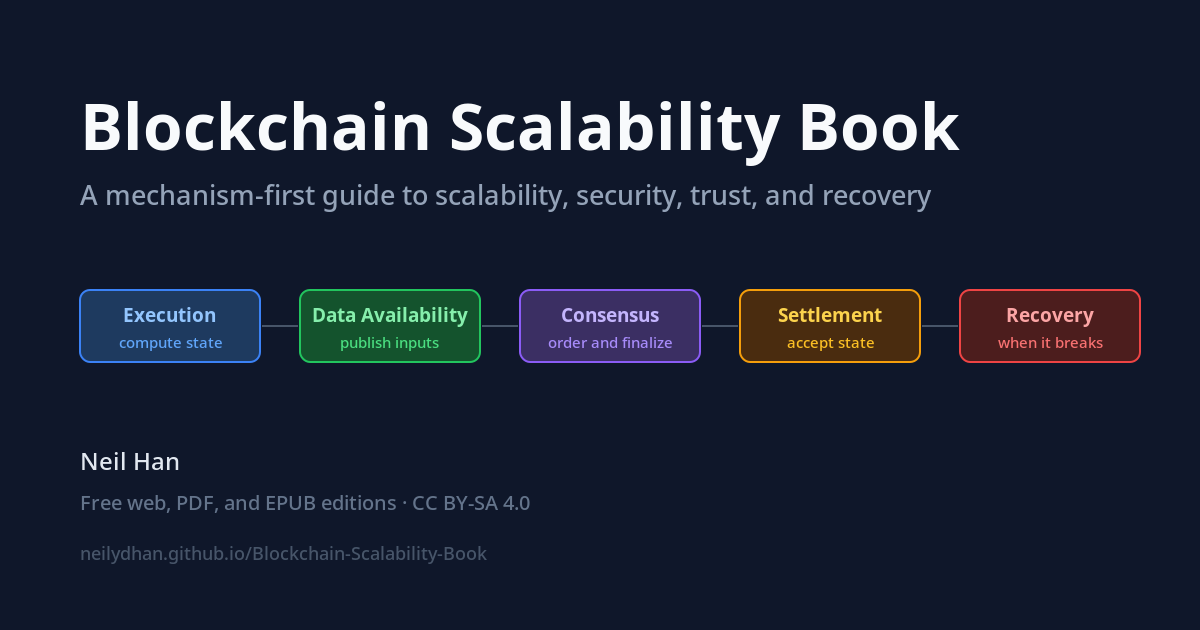
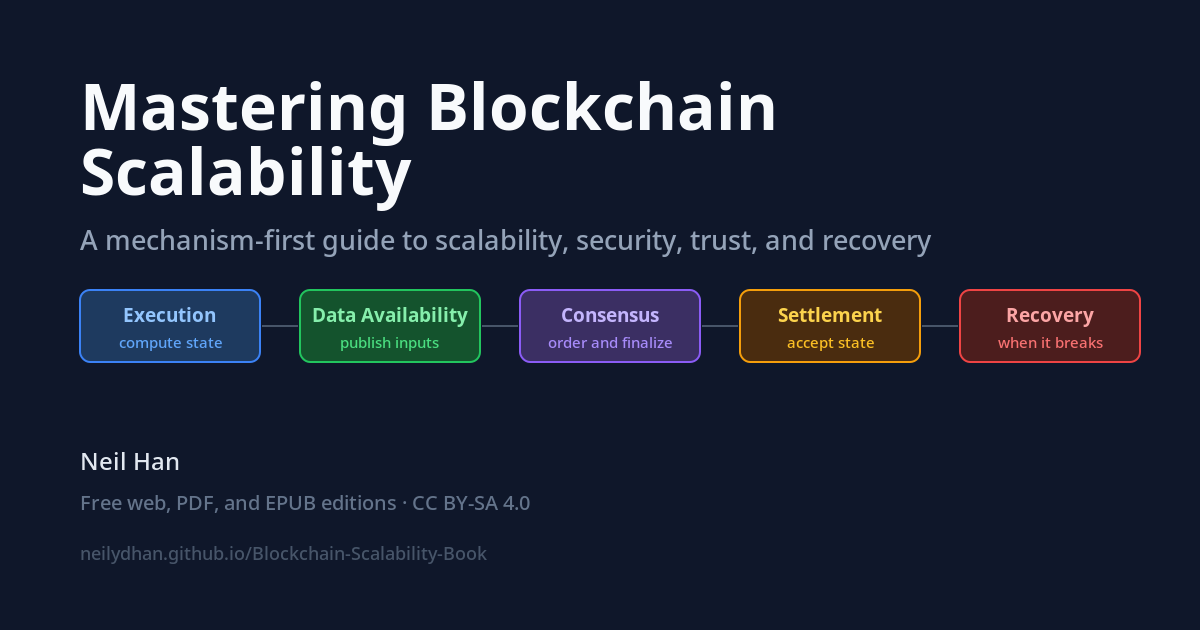
Rename book to Mastering Blockchain Scalability

Changed region(s): [[0.0617, 0.1206, 0.8017, 0.3317], [0.0617, 0.3619, 0.7708, 0.4222]]

diff --git a/theme/print-7x10.css b/theme/print-7x10.css
@@ -26,7 +26,7 @@ body {
   font-family: 'Noto Serif', serif;
   font-size: 10.5pt; line-height: 1.315;  /* 10.5pt on 13.8pt */
   color: #111;
-  string-set: booktitle "Blockchain Scalability Book";
+  string-set: booktitle "Mastering Blockchain Scalability";
 }
 p { text-align: justify; hyphens: auto; widows: 2; orphans: 2; margin: 0 0 5.5pt 0; }
 

diff --git a/theme/analytics.js b/theme/analytics.js
@@ -1,4 +1,4 @@
-/* Simple Analytics wiring for the Blockchain Scalability Book web edition.
+/* Simple Analytics wiring for the Mastering Blockchain Scalability web edition.
  * Collects only the six aggregate events approved in ANALYTICS.md.
  * No metadata, no identifiers; honors Do Not Track. MIT-licensed build software.
  */

diff --git a/scripts/pdf_toc.py b/scripts/pdf_toc.py
@@ -27,18 +27,18 @@ def clean_main(soup):
 
 def make_front_matter(soup, version):
     cover = soup.new_tag("section", attrs={"class": "pdf-front-page pdf-cover"})
-    h = soup.new_tag("h1"); h.string = "Blockchain Scalability Book"; cover.append(h)
+    h = soup.new_tag("h1"); h.string = "Mastering Blockchain Scalability"; cover.append(h)
     sub = soup.new_tag("p"); sub.string = "Mechanisms, Trade-offs, and Engineering Practice"; cover.append(sub)
 
     title = soup.new_tag("section", attrs={"class": "pdf-front-page pdf-title-page"})
-    h = soup.new_tag("h1"); h.string = "Blockchain Scalability Book"; title.append(h)
+    h = soup.new_tag("h1"); h.string = "Mastering Blockchain Scalability"; title.append(h)
     p = soup.new_tag("p"); p.string = "A systems guide to scaling execution, data availability, settlement, and consensus"; title.append(p)
     p = soup.new_tag("p", attrs={"class": "pdf-author"}); p.string = "Neil Han"; title.append(p)
 
     copyright_page = soup.new_tag("section", attrs={"class": "pdf-front-page pdf-copyright-page"})
     h = soup.new_tag("h1"); h.string = "Copyright"; copyright_page.append(h)
     for text in (
-        "Copyright © 2024 Blockchain Scalability Book Contributors.",
+        "Copyright © 2024 Mastering Blockchain Scalability Contributors.",
         f"Version {version}.",
         "Licensed under the MIT License.",
         "This book is provided without warranty. Protocols and roadmaps change; readers should verify current implementation and security details against primary sources.",
@@ -131,12 +131,12 @@ def paginate(pdf_path, map_path):
             continue
         if physical_number < first_main:
             label = roman(physical_number - 1)
-            header = "Blockchain Scalability Book · Front Matter"
+            header = "Mastering Blockchain Scalability · Front Matter"
         else:
             label = str(physical_number - first_main + 1)
             # The latest h1 at or before this page provides a stable running head.
             chapters = [r["title"] for r, p in zip(records, physical) if r["level"] == 1 and p <= physical_number]
-            header = chapters[-1] if chapters else "Blockchain Scalability Book"
+            header = chapters[-1] if chapters else "Mastering Blockchain Scalability"
         page.insert_text((54, 24), header, fontsize=8, color=(0.35, 0.35, 0.35))
         width = page.rect.width
         page.insert_text((width / 2 - len(label) * 2, page.rect.height - 18), label, fontsize=9, color=(0.25, 0.25, 0.25))

diff --git a/scripts/build-print.py b/scripts/build-print.py
@@ -156,12 +156,12 @@ def build():
             entry["def"] = aid
 
     # Assemble document.
-    doc = BeautifulSoup("<!DOCTYPE html><html lang='en'><head><meta charset='utf-8'><title>Blockchain Scalability Book - Print Interior</title></head><body></body></html>", "html.parser")
+    doc = BeautifulSoup("<!DOCTYPE html><html lang='en'><head><meta charset='utf-8'><title>Mastering Blockchain Scalability - Print Interior</title></head><body></body></html>", "html.parser")
     body = doc.body
 
     body.append(BeautifulSoup("""
 <div class="tp titlepage">
-  <div class="t">Blockchain Scalability Book</div>
+  <div class="t">Mastering Blockchain Scalability</div>
   <div class="st">A mechanism-first guide to blockchain scalability, security, trust, and recovery</div>
   <div class="au">Neil Han</div>
   <div class="ed">Version 1.1.1 &middot; Print Edition Candidate</div>
@@ -170,13 +170,13 @@ def build():
     body.append(BeautifulSoup("""
 <div class="fm copyright">
   <p class="spacer"></p>
-  <p><b>Blockchain Scalability Book</b><br>Version 1.1.1, print edition candidate</p>
+  <p><b>Mastering Blockchain Scalability</b><br>Version 1.1.1, print edition candidate</p>
   <p>&copy; 2026 Neil Han. Book prose, exercises, tables, and original figures are licensed under the Creative Commons Attribution-ShareAlike 4.0 International License (CC BY-SA 4.0, https://creativecommons.org/licenses/by-sa/4.0/). Build software under scripts/, theme/, and .github/ is licensed under the MIT License. Third-party quotations, trademarks, and credited materials retain their respective rights. Figure sources and credits appear in the Figure Credits chapter.</p>
   <p>Free digital editions (web, PDF, EPUB): https://github.com/neilydhan/Blockchain-Scalability-Book/releases</p>
   <p>Independently published. Print ISBN: to be assigned through Amazon KDP.</p>
   <p>10 9 8 7 6 5 4 3 2 1</p>
   <p>This book is educational material, not financial, legal, or investment advice. Protocol details change; every time-sensitive claim carries a source and a date, and readers should verify the current specification.</p>
-  <p>Cite this edition: Han, Neil. <i>Blockchain Scalability Book</i>. Version 1.1.1, 2026.</p>
+  <p>Cite this edition: Han, Neil. <i>Mastering Blockchain Scalability</i>. Version 1.1.1, 2026.</p>
 </div>""", "html.parser"))
 
     # TOC

diff --git a/scripts/enrich-html.py b/scripts/enrich-html.py
@@ -17,7 +17,7 @@ if not (OUT / "index.html").exists():
 book_schema = {
     "@context": "https://schema.org",
     "@type": "Book",
-    "name": "Blockchain Scalability Book",
+    "name": "Mastering Blockchain Scalability",
     "author": {"@type": "Person", "name": "Neil Han", "url": "https://github.com/neilydhan"},
     "bookFormat": "https://schema.org/EBook",
     "inLanguage": "en",
@@ -44,7 +44,7 @@ for path in sorted(OUT.rglob("*.html")):
     head=soup.head
     if not head: continue
     canonical = BASE if rel == "index.html" else BASE + rel
-    title_text = soup.title.get_text(" ", strip=True) if soup.title else "Blockchain Scalability Book"
+    title_text = soup.title.get_text(" ", strip=True) if soup.title else "Mastering Blockchain Scalability"
     for selector in ['link[rel="canonical"]','meta[name="description"]','meta[property="og:title"]','meta[property="og:description"]','meta[property="og:url"]','meta[property="og:type"]','meta[name="twitter:card"]','meta[name="twitter:title"]','meta[name="twitter:description"]']:
         for old in head.select(selector): old.decompose()
     def meta(**attrs):

diff --git a/ACADEMIC.md b/ACADEMIC.md
@@ -2,7 +2,7 @@
 
 ## Why Use This Book
 
-*Blockchain Scalability Book* treats scalability as a resource, systems, security, and recovery problem. It is designed for courses that need more than a list of protocols or a comparison of advertised transactions-per-second figures. Students trace complete transaction and failure paths, calculate resource bounds, state trust assumptions, analyze recovery, and evaluate benchmark claims.
+*Mastering Blockchain Scalability* treats scalability as a resource, systems, security, and recovery problem. It is designed for courses that need more than a list of protocols or a comparison of advertised transactions-per-second figures. Students trace complete transaction and failure paths, calculate resource bounds, state trust assumptions, analyze recovery, and evaluate benchmark claims.
 
 The complete web and PDF editions are free. Instructors can assign individual chapters, reuse and adapt the worksheets under CC BY-SA 4.0, and pin a class to a versioned release so page numbers and exercises remain stable.
 
@@ -69,4 +69,4 @@ For a syllabus review, correction, or course-adoption discussion, open a GitHub 
 
 ## Recommended Citation
 
-> Han, Neil. *Blockchain Scalability Book*. Version 1.1.1, 2026. GitHub. https://github.com/neilydhan/Blockchain-Scalability-Book/releases/tag/v1.1.1
+> Han, Neil. *Mastering Blockchain Scalability*. Version 1.1.1, 2026. GitHub. https://github.com/neilydhan/Blockchain-Scalability-Book/releases/tag/v1.1.1

diff --git a/README.md b/README.md
@@ -1,4 +1,4 @@
-# Blockchain Scalability Book
+# Mastering Blockchain Scalability
 
 **A mechanism-first guide to blockchain capacity, security, trust, and recovery.**
 
@@ -58,7 +58,7 @@ The additional material includes a glossary, review questions with solution sket
 
 Until a DOI is assigned, cite the versioned GitHub release:
 
-> Han, Neil. *Blockchain Scalability Book*. Version 1.1.1, 2026. GitHub. https://github.com/neilydhan/Blockchain-Scalability-Book/releases/tag/v1.1.1
+> Han, Neil. *Mastering Blockchain Scalability*. Version 1.1.1, 2026. GitHub. https://github.com/neilydhan/Blockchain-Scalability-Book/releases/tag/v1.1.1
 
 Machine-readable citation metadata is in [`CITATION.cff`](CITATION.cff). Cite a version-specific release when exact page numbers or claims matter.
 

diff --git a/LICENSE.md b/LICENSE.md
@@ -19,7 +19,7 @@ https://creativecommons.org/licenses/by-sa/4.0/legalcode
 
 Preferred attribution:
 
-> Neil Han, *Blockchain Scalability Book*, version used, https://github.com/neilydhan/Blockchain-Scalability-Book, CC BY-SA 4.0. Changes, if any, should be identified.
+> Neil Han, *Mastering Blockchain Scalability*, version used, https://github.com/neilydhan/Blockchain-Scalability-Book, CC BY-SA 4.0. Changes, if any, should be identified.
 
 Third-party quotations, trademarks, and materials identified in figure credits or citations remain subject to their respective rights. This license does not imply endorsement by Neil Han or any institution.
 

diff --git a/CONTRIBUTING.md b/CONTRIBUTING.md
@@ -1,6 +1,6 @@
-# Contributing to the Blockchain Scalability Book
+# Contributing to the Mastering Blockchain Scalability
 
-Thank you for your interest in contributing to the Blockchain Scalability Book! This document provides guidelines and instructions for contributing.
+Thank you for your interest in contributing to the Mastering Blockchain Scalability! This document provides guidelines and instructions for contributing.
 
 ## How to Contribute
 

diff --git a/RELEASE.md b/RELEASE.md
@@ -1,6 +1,6 @@
 # First Edition 1.0.0
 
-**Title:** *Blockchain Scalability Book*
+**Title:** *Mastering Blockchain Scalability*
 **Author:** Neil Han
 **Status:** First-edition release candidate
 **Canonical source:** `main` in https://github.com/neilydhan/Blockchain-Scalability-Book
